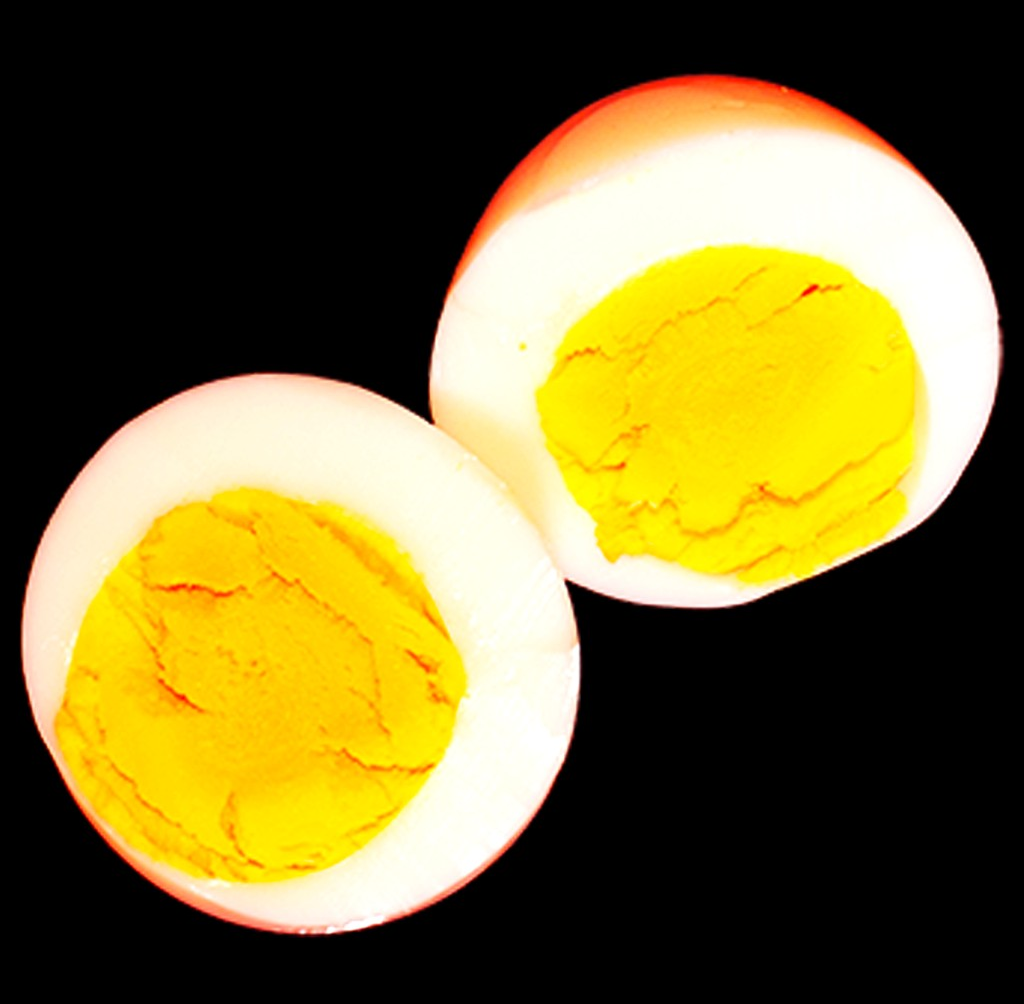
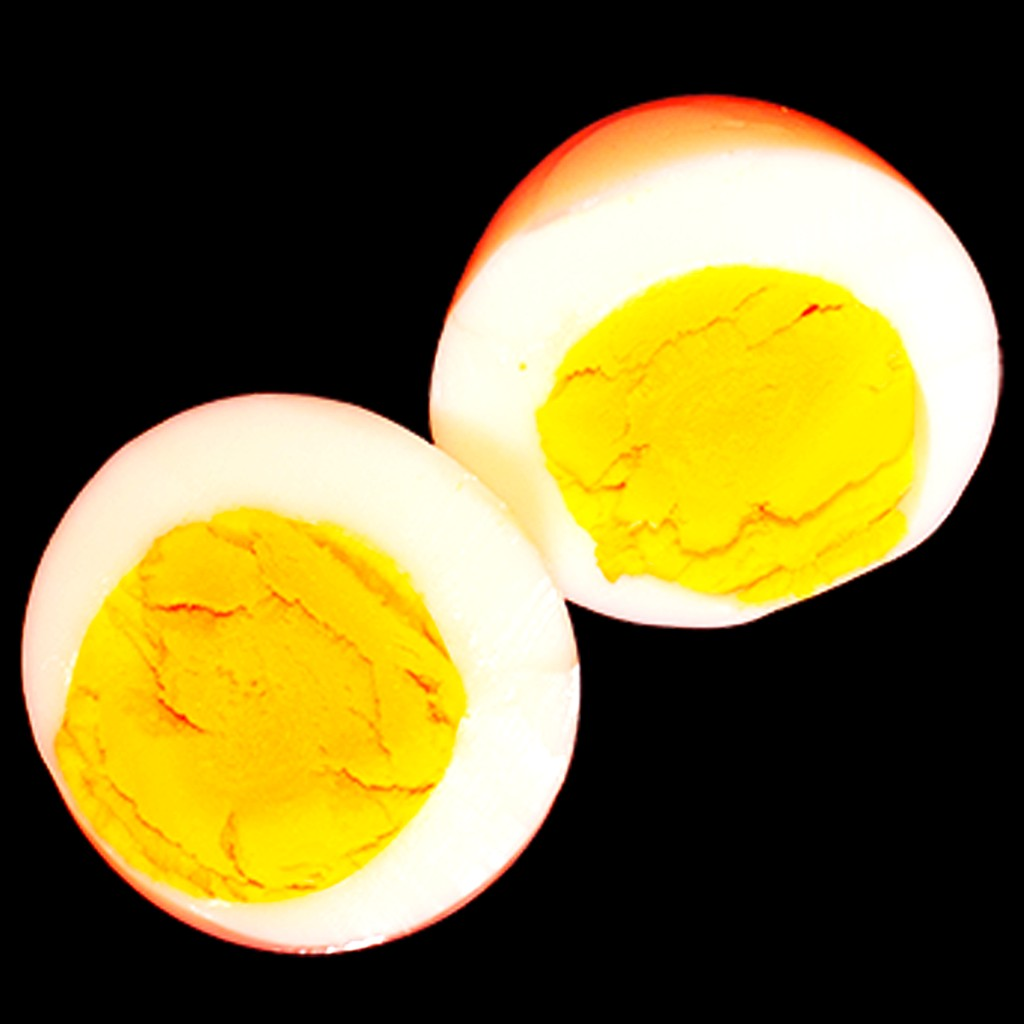
Use the square HOW-TO photos in a matching 1:1 frame.

diff --git a/index.html b/index.html
@@ -11,7 +11,7 @@
       href="https://fonts.googleapis.com/css2?family=Intel+One+Mono:wght@400;700&display=swap"
       rel="stylesheet"
     />
-    <link rel="stylesheet" href="css/style.css?v=how12" />
+    <link rel="stylesheet" href="css/style.css?v=how13" />
     <link rel="preload" as="image" href="assets/how-mushrooms.png" />
     <link rel="preload" as="image" href="assets/how-eggs.png" />
     <link rel="preload" as="image" href="assets/how-meat.png" />
@@ -103,19 +103,19 @@
       </header>
       <div class="recipe-hero-layer" aria-hidden="true">
         <figure class="recipe-hero" data-hero="mushrooms">
-          <img src="assets/how-mushrooms.png" alt="" />
+          <img src="assets/how-mushrooms.png" width="1024" height="1024" alt="" />
         </figure>
         <figure class="recipe-hero" data-hero="eggs">
-          <img src="assets/how-eggs.png" alt="" />
+          <img src="assets/how-eggs.png" width="1024" height="1024" alt="" />
         </figure>
         <figure class="recipe-hero" data-hero="meat">
-          <img src="assets/how-meat.png" alt="" />
+          <img src="assets/how-meat.png" width="1024" height="1024" alt="" />
         </figure>
         <figure class="recipe-hero" data-hero="noodles">
-          <img src="assets/how-noodles.png" alt="" />
+          <img src="assets/how-noodles.png" width="1024" height="1024" alt="" />
         </figure>
         <figure class="recipe-hero" data-hero="scallion">
-          <img src="assets/how-scallion.png" alt="" />
+          <img src="assets/how-scallion.png" width="1024" height="1024" alt="" />
         </figure>
       </div>
       <div class="recipe">
@@ -164,6 +164,6 @@
       </div>
     </section>
 
-    <script src="js/app.js?v=how12"></script>
+    <script src="js/app.js?v=how13"></script>
   </body>
 </html>

diff --git a/css/style.css b/css/style.css
@@ -590,7 +590,7 @@ body.is-transitioning {
 
 .recipe-hero-layer {
   --hero-w: min(68vh, 52vw);
-  --hero-h: calc(var(--hero-w) * 1004 / 1024);
+  --hero-h: var(--hero-w);
   position: absolute;
   inset: 0;
   display: grid;
